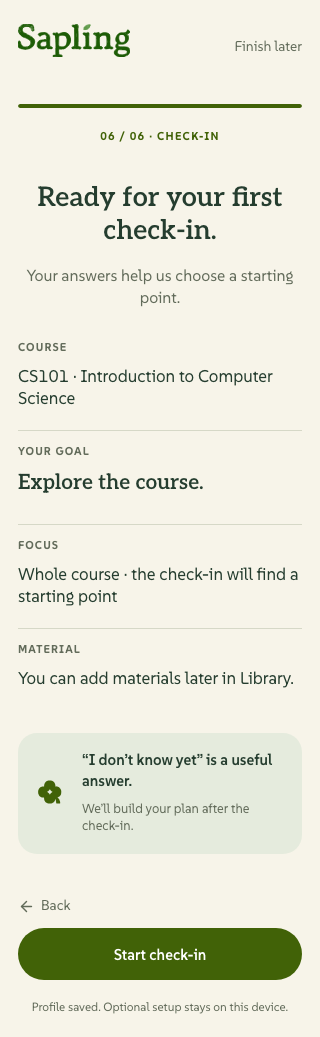
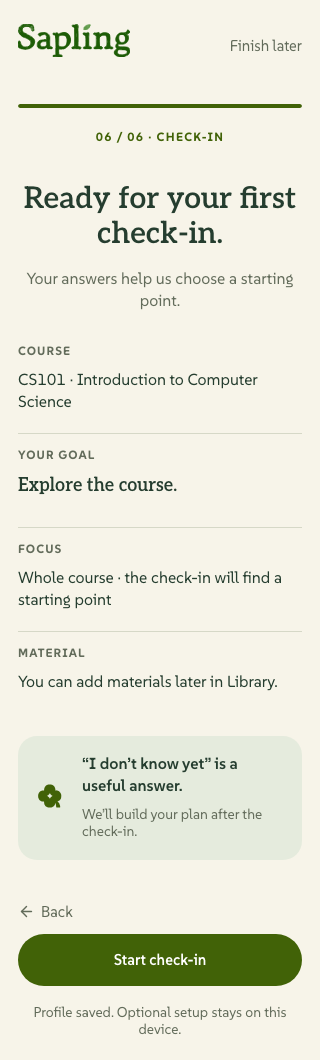
test(redesign): verify the combined onboarding and current sidebar

diff --git a/frontend/e2e/onboarding.spec.ts b/frontend/e2e/onboarding.spec.ts
@@ -270,7 +270,10 @@ test("desktop onboarding: six Pen screens → real upload → confirmed goal →
     const sidebarBox = await sidebar.boundingBox();
     const wordmarkBox = await sidebar.getByRole("link", { name: "Sapling home" }).boundingBox();
     const selectedBox = await selectedLearn.boundingBox();
-    for (const [actual, expected] of [[sidebarBox?.x, 0], [sidebarBox?.width, 216], [sidebarBox?.height, 960], [wordmarkBox?.x, 26], [wordmarkBox?.y, 26], [wordmarkBox?.width, 150], [wordmarkBox?.height, 44.55], [selectedBox?.x, 16], [selectedBox?.y, 190], [selectedBox?.width, 184], [selectedBox?.height, 46]]) {
+    // Preserve #728's latest sidebar iteration: compact 112px wordmark,
+    // 36px rows, Home label and remembered collapse. The six standalone
+    // onboarding screens retain their layout geometry asserted above.
+    for (const [actual, expected] of [[sidebarBox?.x, 0], [sidebarBox?.width, 216], [sidebarBox?.height, 960], [wordmarkBox?.x, 25], [wordmarkBox?.y, 20], [wordmarkBox?.width, 112], [wordmarkBox?.height, 33.264], [selectedBox?.x, 16], [selectedBox?.y, 136], [selectedBox?.width, 184], [selectedBox?.height, 36]]) {
       expect(actual).toBeDefined();
       expect(Math.abs(actual! - expected!)).toBeLessThanOrEqual(1.5);
     }
@@ -278,6 +281,17 @@ test("desktop onboarding: six Pen screens → real upload → confirmed goal →
     const selectedPill = page.getByTestId("nav-pill");
     await expect(selectedPill).toHaveAttribute("data-shown");
     await expect(selectedPill).toHaveCSS("background-color", "rgb(247, 244, 233)");
+    await expect(sidebar.getByRole("link", { name: "Home", exact: true })).toHaveAttribute("href", "/dashboard");
+    const collapse = page.getByTestId("nav-collapse");
+    await collapse.click();
+    await expect(sidebar).toHaveAttribute("data-collapsed");
+    await expect(sidebar).toHaveCSS("width", "68px");
+    await expect(selectedLearn).toHaveAttribute("aria-label", "Learn");
+    await expect(collapse).toHaveAttribute("aria-label", "Expand sidebar");
+    await collapse.click();
+    await expect(sidebar).not.toHaveAttribute("data-collapsed");
+    await expect(sidebar).toHaveCSS("width", "216px");
+    await expect(sidebar.getByRole("link", { name: "Sapling home" })).toBeVisible();
     await evidence(page, "07-check-in-sidebar-desktop");
     await page.reload();
     await expect(phase).toHaveAttribute("data-session-id", session.id, { timeout: 30_000 });

diff --git a/frontend/e2e/dashboard-workspace.spec.ts b/frontend/e2e/dashboard-workspace.spec.ts
@@ -166,6 +166,7 @@ test.describe("dashboard workspace", () => {
     await expect(dialog).toBeVisible();
     await expect(page.getByTestId("graph-container")).toHaveCount(1);
     await expect(dialog.getByTestId("graph-zoom-in")).toBeVisible();
+    await expect(dialog.getByTestId("dashboard-full-map-close")).toBeFocused();
     await page.keyboard.press("Escape");
     await expect(dialog).toHaveCount(0);
     await expect(opener).toBeFocused();
@@ -205,6 +206,7 @@ test.describe("dashboard workspace", () => {
         await expect(sheet).toBeVisible();
         await expect(sheet.getByTestId("dashboard-sheet-concept-practice")).toBeVisible();
         await expect(sheet.getByTestId("dashboard-sheet-concept-back")).toBeVisible();
+        await expect(sheet.getByTestId("dashboard-concept-sheet-close")).toBeFocused();
         await page.keyboard.press("Escape");
         await expect(sheet).toHaveCount(0);
         await expect(topics).toBeFocused();

diff --git a/docs/redesign/06-onboarding.md b/docs/redesign/06-onboarding.md
@@ -1,8 +1,8 @@
 # Pen onboarding and desktop navigation
 
-The old five-screen onboarding and FA26 icon rail did not implement the approved redesign. This change implements the six screens under **NEW REDESIGN / 05 / Onboarding**, and replaces the desktop rail with the approved 216px labeled sage sidebar. Learn and Tutor continue to use the same learning controller and session.
+The old five-screen onboarding did not implement the approved redesign. This change implements the six screens under **NEW REDESIGN / 05 / Onboarding** and keeps the shared desktop sidebar. Learn and Tutor continue to use the same learning controller and session.
 
-This is stacked on PR [#728](https://github.com/SaplingLearn/Sapling/pull/728), targeting `feat/redesign-integration`. Its inherited learning-loop and redesign dependencies are not onboarding changes. Merge the dependency before retargeting this change to main; do not merge the stack out of order.
+The onboarding work originally reviewed in [#731](https://github.com/SaplingLearn/Sapling/pull/731) is now integrated directly into [#728](https://github.com/SaplingLearn/Sapling/pull/728), on `feat/redesign-integration`. Review and merge the combined redesign through #728, which targets `main`; onboarding no longer needs a separate stacked PR. The existing #673/#727 dependencies documented in #728 still apply.
 
 ## Design source
 
@@ -19,9 +19,11 @@ The source is the active `Sapling-Complete-Wireframes.pen` file, [shared in Pen]
 
 Additional production captures show the [320px phone review](onboarding-review/06-review-phone-320.png), the [shared desktop sidebar after onboarding](onboarding-review/07-check-in-sidebar-desktop.png), and [recovery into the selected non-default course](onboarding-review/08-recovered-math-check-in-desktop.png). They come from the isolated browser journeys, not a production deployment.
 
-The six onboarding frames are standalone cream canvases: they do **not** contain a sidebar. The post-onboarding application retains the latest #728 sidebar from `u1gDw`: full sage background, authored wordmark, Today / Learn / Knowledge / Library / Tutor / Calendar, and Settings/profile at the bottom. Existing additional tools remain in its More disclosure, with their feature flags intact. Learn and Tutor links preserve the current course while changing the view.
+The six onboarding frames are standalone cream canvases: they do **not** contain a sidebar. The post-onboarding application retains #728's latest sidebar iteration: sage background, smaller authored wordmark and icons, Home / Learn / Knowledge / Library / Tutor / Calendar, a collapse control, and Settings/profile at the bottom. Existing additional tools remain in its More disclosure, with their feature flags intact. Learn and Tutor links preserve the current course while changing the view. The standalone onboarding geometry remains the approved Pen geometry.
 
 At 1440 × 960 the onboarding progress track begins at `(440, 110)`, is 560px wide, and the Aleo 40px/600 heading begins at y=202. The main action is 560 × 52px at `(440, 832)`. The form uses the native cream/sage/olive palette, Aleo and SUSE fonts, and existing approved SVG assets. Larger content and editing/error states scroll rather than hiding controls. The phone layout remains usable; this PR's fidelity target is desktop.
+
+After integration, #728 applies its shared `--sapling-text-*` roles to onboarding as well as Home, Learn, Tutor and Library. The desktop page title remains 40px at 1440px; other text follows the shared roles. The source exports remain unchanged for comparison, while browser captures reflect the combined branch.
 
 ## Behavior and honest state
 
@@ -43,4 +45,6 @@ The existing frontend lint, TypeScript, unit and production-build checks are req
 
 `frontend/e2e/onboarding.spec.ts` uses the repository's isolated seeded database and deterministic model seam. It walks all six desktop screens through a real upload and goal-bearing learning session; exercises refresh, Back and duplicate-start protection; and checks catalog/profile failures at 320px. The browser test also compares the desktop geometry and authored typography to the Pen source. The additional cross-surface regression set covers feature flags, Library uploads, studio/tutor continuity and course context.
 
-Actual run results and GitHub checks are recorded in the PR. No production database or existing pilot is used, no CI gate is weakened, and no deployment or merge is part of this change. Deterministic browser tests verify the application wiring; they do not establish real-model teaching quality or learning outcomes.
+The combined branch passes the standard production build, full frontend suite (1,764 passed; 2 existing skips), and 15 browser journeys across onboarding, dashboard, feature flags, upload and Learn/Tutor continuity. Dashboard Escape tests wait for the overlay's initial focus before sending the key; their close and focus-return assertions remain intact. Sidebar checks cover the current 112px wordmark, compact rows and collapse/expand behavior.
+
+Actual run results and GitHub checks are recorded in #728. Integration checks use a separate local test stack; the existing onboarding preview and pilot remain available. No production database is used, no CI gate is weakened, and merging #728 to main is a separate action. Deterministic browser tests verify the application wiring; they do not establish real-model teaching quality or learning outcomes.
